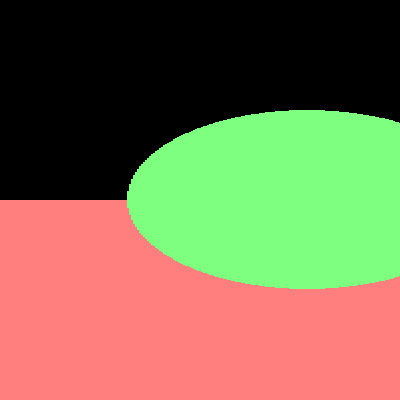
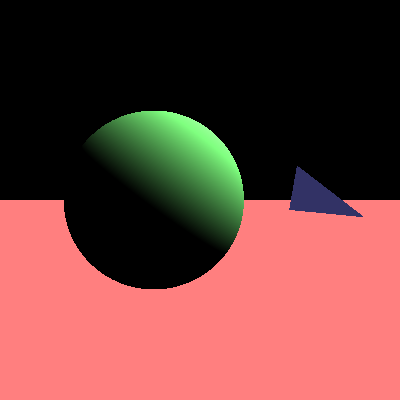
Implemented diffusion for diffusive materials

diff --git a/src/scene/primitives/Sphere.cs b/src/scene/primitives/Sphere.cs
@@ -31,51 +31,37 @@ namespace RayTracer
         /// <returns>Hit data (or null if no intersection)</returns>
         public RayHit Intersect(Ray ray)
         {
-            Vector3 originCenterDistance = ray.Origin - this.center;
-            double a = ray.Direction.Dot(ray.Direction);
-            double b = 2 * ray.Direction.Dot(originCenterDistance);
-            double c = originCenterDistance.Dot(originCenterDistance) - Math.Pow(this.radius, 2);
-            double[] times = quadraticSolution(a, b, c);
-            if (times == null)
+            Vector3 length = this.center - ray.Origin;
+            double tca = length.Dot(ray.Direction);
+            if (tca < 0)
             {
                 return null;
             }
-            if (times[0] > times[1])
+            double d2 = length.Dot(length) - Math.Pow(tca, 2);
+            double r2 = Math.Pow(this.radius, 2);
+            if (d2 > r2)
             {
-                double temporary = times[0];
-                times[0] = times[1];
-                times[1] = temporary;
+                return null;
             }
-            if (times[0] < 0)
+            double thc = Math.Sqrt(r2 - d2);
+            double time0 = tca - thc;
+            double time1 = tca + thc;
+            if (time0 > time1)
             {
-                times[0] = times[1];
-                if (times[0] < 0)
+                double temporary = time0;
+                time0 = time1;
+                time1 = temporary;
+            }
+            if (time0 < 0)
+            {
+                time0 = time1;
+                if (time0 < 0)
                 {
                     return null;
                 }
             }
-            Vector3 hitLocation = ray.Origin + times[0] * ray.Direction;
-            return new RayHit(hitLocation, (hitLocation - this.center).Normalized(), ray.Direction, null);
-        }
-
-        private double[] quadraticSolution(double a, double b, double c)
-        {
-            double discriminant = Math.Pow(b, 2) - 4 * a * c;
-            if (discriminant < 0)
-            {
-                return null;
-            }
-            double x0, x1;
-            if (discriminant == 0)
-            {
-                x0 = x1 = -0.5 * b / a;
-            }
-            else {
-                double quadratic = b > 0 ? -(Math.Sqrt(discriminant) + b) / 2 : (Math.Sqrt(discriminant) - b) / 2;
-                x0 = quadratic / a;
-                x1 = c / quadratic;
-            }
-            return new double[] {x0, x1};
+            Vector3 hitLocation = ray.Origin + time0 * ray.Direction;
+            return new RayHit(hitLocation, (hitLocation - this.center).Normalized(), ray.Direction, this.material);
         }
 
         /// <summary>

diff --git a/src/scene/Scene.cs b/src/scene/Scene.cs
@@ -1,6 +1,8 @@
 using System;
 using System.Collections.Generic;
 
+# nullable enable
+
 namespace RayTracer
 {
     /// <summary>
@@ -56,20 +58,36 @@ namespace RayTracer
                 for (int y = 0; y < outputImage.Height; y++)
                 {
                     outputImage.SetPixel(x, y, new Color(0, 0, 0));
-                    Vector3 coordinates = new Vector3((x - outputImage.Width) / 2, ((outputImage.Height - 1) / 2) - y, z);
+                    double normX = (x + 0.5) / outputImage.Width;
+                    double normY = (y + 0.5) / outputImage.Height;
+                    Vector3 coordinates = new Vector3(outputImage.Width * (normX - 0.5), outputImage.Height * (0.5 - normY), z);
                     Ray ray = new Ray(new Vector3(0, 0, 0), coordinates.Normalized());
                     RayHit? nearestHit = null;
                     foreach (SceneEntity entity in this.entities)
                     {
                         RayHit hit = entity.Intersect(ray);
-                        if (hit != null && (hit?.Position.Length() < nearestHit?.Position.Length() || nearestHit == null))
+                        if (hit != null && (hit?.Position.LengthSq() < nearestHit?.Position.LengthSq() || nearestHit == null))
                         {
-                            outputImage.SetPixel(x, y, entity.Material.Color);
+                            outputImage.SetPixel(x, y, hit.Material.Type == Material.MaterialType.Diffuse ? diffuseColor(hit) : hit.Material.Color);
                             nearestHit = hit;
                         }
                     }
                 }
             }
+        }
+        private Color diffuseColor(RayHit hit)
+        {
+            Color color = new Color(0, 0, 0);
+            Color subcolor;
+            foreach (PointLight light in this.lights)
+            {
+                subcolor = hit.Material.Color * light.Color * hit.Normal.Dot(light.Position);
+                if (subcolor.R >= 0 && subcolor.G >= 0 && subcolor.B >= 0)
+                {
+                    color += subcolor;
+                }
+            }
+            return color;
         }
     }
 }

diff --git a/src/math/RayHit.cs b/src/math/RayHit.cs
@@ -11,12 +11,14 @@ namespace RayTracer
         private Vector3 position;
         private Vector3 normal;
         private Vector3 incident;
+        private Material material;
 
         public RayHit(Vector3 position, Vector3 normal, Vector3 incident, Material material)
         {
             this.position = position;
             this.normal = normal;
             this.incident = incident;
+            this.material = material;
         }
 
         // You may wish to write methods to compute other vectors, 
@@ -27,5 +29,7 @@ namespace RayTracer
         public Vector3 Normal { get { return this.normal; } }
 
         public Vector3 Incident { get { return this.incident; } }
+
+        public Material Material { get { return this.material; } }
     }
 }

diff --git a/src/scene/primitives/Plane.cs b/src/scene/primitives/Plane.cs
@@ -35,9 +35,9 @@ namespace RayTracer
             if (Math.Abs(denominator) > double.Epsilon)
             {
                 double time = this.normal.Dot(this.center - ray.Origin) / denominator;
-                if (time > float.Epsilon)
+                if (time > double.Epsilon)
                 {
-                    return new RayHit(ray.Origin + time * ray.Direction, this.normal, ray.Direction, null);
+                    return new RayHit(ray.Origin + time * ray.Direction, this.normal, ray.Direction, this.material);
                 }
             }
             return null;

diff --git a/src/scene/primitives/Triangle.cs b/src/scene/primitives/Triangle.cs
@@ -59,7 +59,7 @@ namespace RayTracer
             {
                 return null;
             }
-            return new RayHit(hitLocation, normal, ray.Direction, null);
+            return new RayHit(hitLocation, normal, ray.Direction, this.material);
         }
 
         /// <summary>
